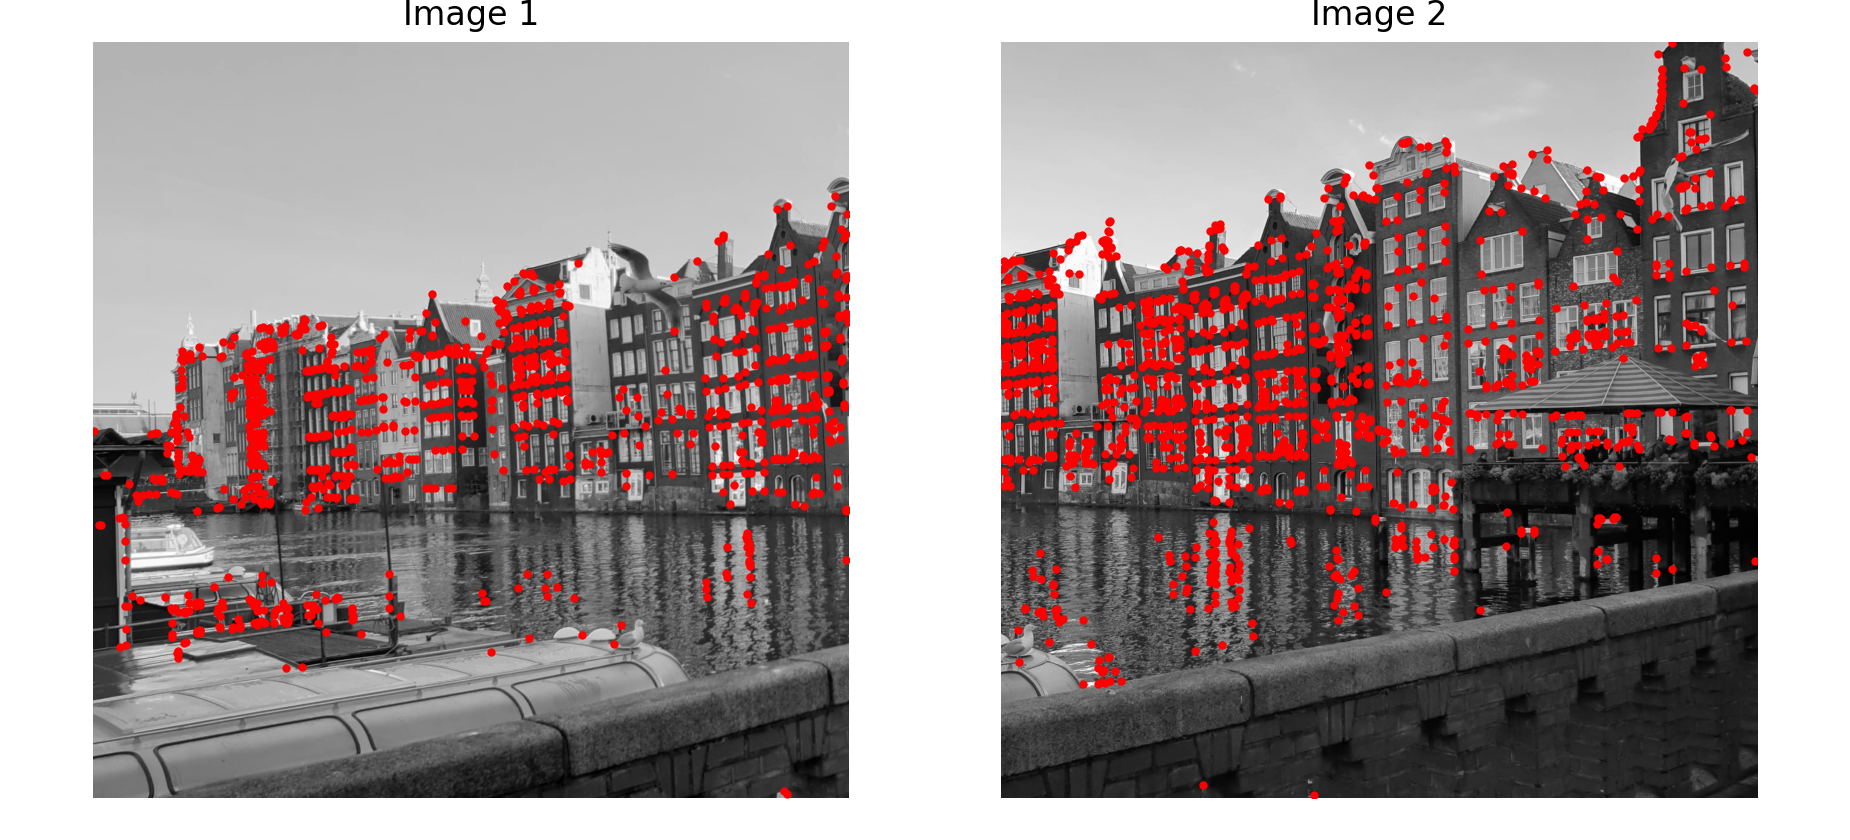
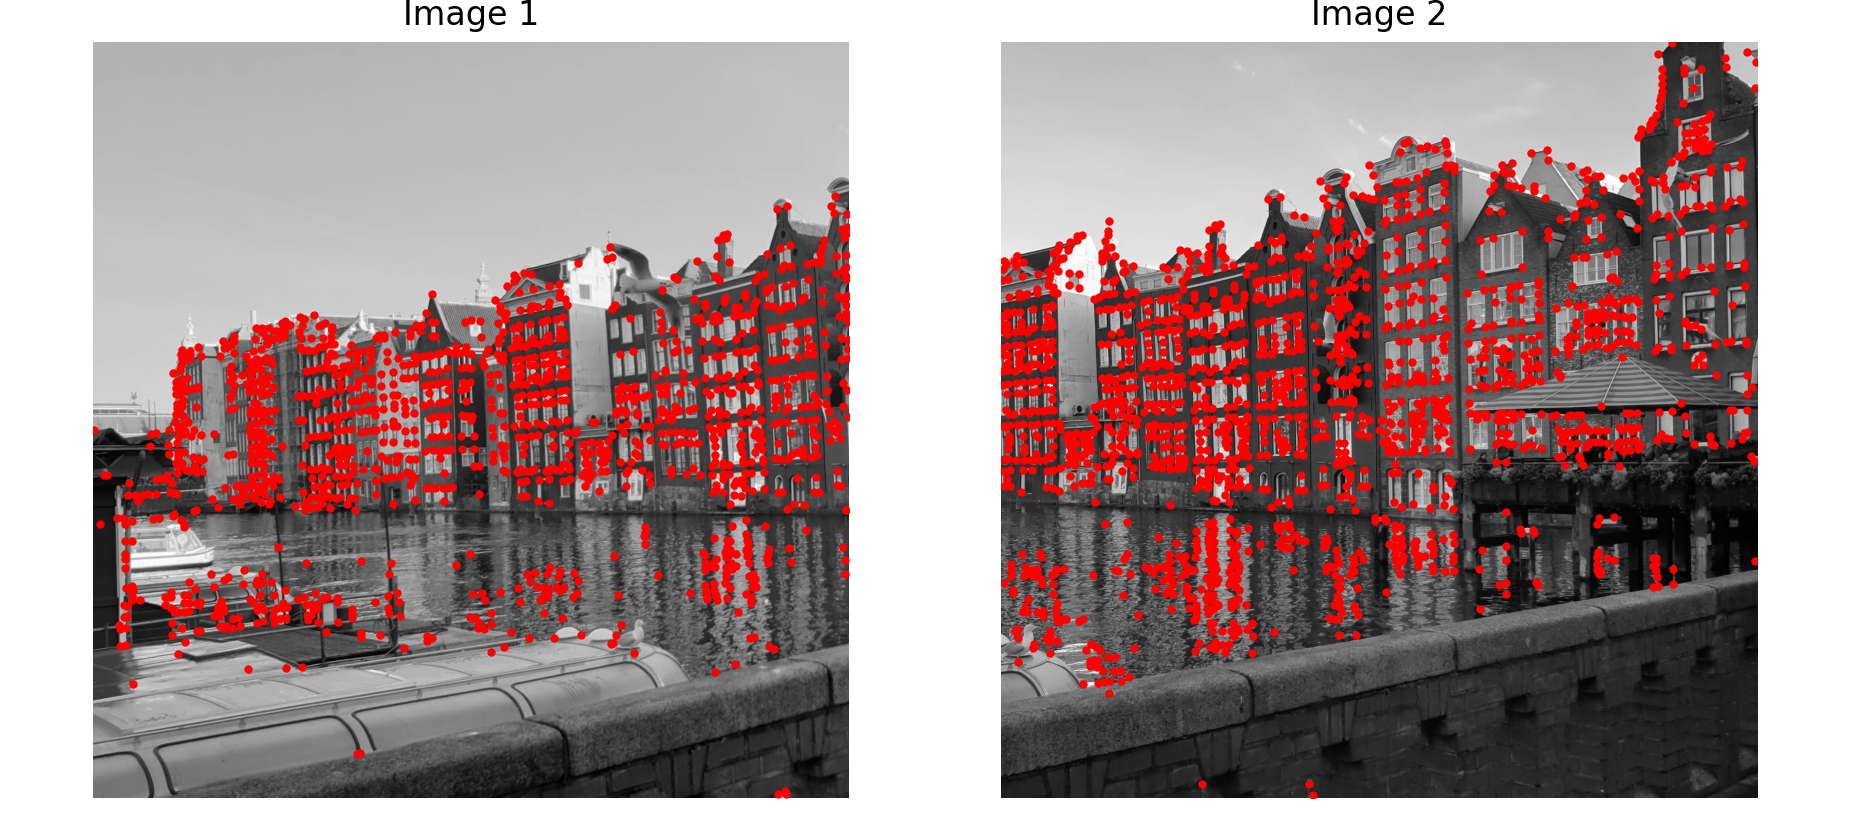
Changes in harris kpt detection

diff --git a/main.py b/main.py
@@ -43,13 +43,13 @@ def run_app(img1_path, img2_path,
     # Create the visualizer object
     vis = visualizer.Visualizer(img1_rgb, img2_rgb, visualize, save_results, results_dir, case_id)
 
-    # Create sift object (used only if enabled)
-    sift = cv2.xfeatures2d.SIFT_create(nfeatures=100)
+    # Create sift object (sift descriptor used only if enabled)
+    sift = cv2.xfeatures2d.SIFT_create(nfeatures=500)
 
     # -------------------------------------------------------------------------
-    # Corner detection
+    # Harris Corner detection
 
-    img1_kpts, img2_kpts = utils.get_Harris_corners(img1_gray, img2_gray)
+    img1_kpts, img2_kpts = utils.get_Harris_corners_2(img1_gray, img2_gray)
 
     vis.set_keypoints(img1_kpts, img2_kpts)
     vis.draw_keypoints()
@@ -83,8 +83,8 @@ def run_app(img1_path, img2_path,
 
     # Matching keypoint pair indices.
     matching_kpt_pair_indices = utils.get_matchings_2(correlation_matrix,
-                                                    similarity_type='correlation',
-                                                    threshold=matching_threshold)
+                                                      similarity_type='correlation',
+                                                      threshold=matching_threshold)
 
     # Visualize matchings
     vis.set_matches(matching_kpt_pair_indices)
@@ -128,7 +128,7 @@ def run_app(img1_path, img2_path,
     # -------------------------------------------------------------------------
     # Apply Affine transform
 
-    img2_warped = cv2.warpPerspective(img2_rgb, affine_matrix, (img1_gray.shape[1]+img2_gray.shape[1],img2_gray.shape[0]))
+    img2_warped = cv2.warpPerspective(img2_rgb, affine_matrix, (img1_gray.shape[1]+img2_gray.shape[1],img1_gray.shape[0]))
     vis.draw_matches(title="Inliers (blue) and Outliers (red)")
     vis.stitch_and_display(img2_warped, display_all=False)
 
@@ -142,10 +142,10 @@ def parse_args():
                         default="./Images/Pair-7/2.jpeg")
     parser.add_argument('--descriptor', type=str, help="Options: 'custom_gray_intensities', custom_rgb_intensities, 'opencv_sift'",
                         default='custom_rgb_intensities')
-    parser.add_argument('--patch_size', type=int, help="5,7,9,...",
-                        default=15)
+    parser.add_argument('--patch_size', type=int, help="9,11,13,15,...",
+                        default=9)
     parser.add_argument('--matching_threshold', type=float, help="Minimum correlation value for a kpt descriptor pair to match",
-                        default=0.985)
+                        default=0.980)
     parser.add_argument('--ransac_sample_size', type=int, help="3,4,5,...",
                         default=3)
     parser.add_argument('--ransac_n_iterations', type=int,
@@ -153,7 +153,7 @@ def parse_args():
     parser.add_argument('--ransac_tolerance', type=int, help="Tolerance value for a kpt pair to be considered an inlier",
                         default=40)
     parser.add_argument('--ransac_inlier_threshold', type=float, help="Fraction of the total matching pairs that need to be inliers",
-                        default=0.03)
+                        default=15)
     parser.add_argument('--visualize', type=int,
                         default=1)
     parser.add_argument('--experiment_id', type=str,

diff --git a/ransac.py b/ransac.py
@@ -3,16 +3,12 @@ import cv2
 
 
 def evaluate_model(affine_matrix, img1_kpts, img2_kpts, inlier_indices):
-    # img1_kpts = np.array([kp.pt for kp in img1_kpts])
     inlier_img1_kpts = img1_kpts[inlier_indices[:,0]]
     inlier_img1_kpts = np.hstack( (inlier_img1_kpts, np.ones((inlier_img1_kpts.shape[0],1))) )
-
-    # img2_kpts = np.array([kp.pt for kp in img2_kpts])
     inlier_img2_kpts = img2_kpts[inlier_indices[:,1]]
     inlier_img2_kpts  = np.hstack((inlier_img2_kpts, np.ones((inlier_img2_kpts.shape[0],1))) )
 
     inlier_img2_kpts_warped = np.dot(inlier_img2_kpts , affine_matrix.T)
-
     euc_distance = np.mean(np.sqrt(np.sum(np.square(inlier_img1_kpts-inlier_img2_kpts_warped), axis=1)), axis=0)
     return euc_distance
 
@@ -31,8 +27,6 @@ class RANSAC_Estimator:
 
 
     def estimate_affine_matrix(self, img1_kpts, img2_kpts, matching_kpt_pair_indices):
-        #inlier_threshold = round(self.inlier_fraction_threshold * matching_kpt_pair_indices.shape[0])
-
         candidate_model_list = []
         used_samples = []
         for i in range(self.n_iterations):
@@ -76,7 +70,7 @@ class RANSAC_Estimator:
                     pt1_true = np.append(img1_kpts[pair_indices[0]], [1])
                     pt1_hypothesis = np.dot(np.append(pt2, [1]), model)
 
-                    # Calculate error(euc distance b/w prediction and truth). In image coordinates.
+                    # Calculate error(euc distance b/w prediction and truth, in image coordinates)
                     dist_from_model = np.linalg.norm(pt1_true-pt1_hypothesis,ord=2)
 
                     if dist_from_model <= self.tolerance:
@@ -104,9 +98,9 @@ class RANSAC_Estimator:
 
         # Choose the best model (one with least residual sum value)
         if len(candidate_model_list) == 0:
-            raise Exception("Couldn't find a good model for the given constraints")
+            raise Exception("Couldn't find a good model for the given configuration")
 
         candidate_model_list = sorted(candidate_model_list, key=lambda c: c[1])
-        affine_matrix, avg_residual, inlier_indices = candidate_model_list[0]
+        affine_matrix, avg_residual, inlier_indices, _ = candidate_model_list[0]
         return affine_matrix.T, avg_residual, inlier_indices
 

diff --git a/visualizer.py b/visualizer.py
@@ -58,8 +58,19 @@ class Visualizer:
         fig.set_size_inches(0.5*18.5, 0.4*10.5)
         fig.set_dpi(200)
         #fig.subplots_adjust(wspace=0.2, hspace=0.1, top=0.95, bottom=0.05, left=0.05, right=0.95)
-        white_strip = (np.ones((self.img1_rgb.shape[0], 100, 3))*255).astype(np.uint8)
-        combined_img = np.hstack((self.img1_rgb, white_strip, self.img2_rgb))
+
+        if self.img1_rgb.shape[0] > self.img2_rgb.shape[0]:
+            white_strip = (np.ones((self.img2_rgb.shape[0], 100, 3))*255).astype(np.uint8)
+            combined_img = np.hstack((self.img1_rgb[:self.img2_rgb.shape[0]], white_strip, self.img2_rgb))
+
+        elif self.img1_rgb.shape[0] < self.img2_rgb.shape[0]:
+            white_strip = (np.ones((self.img1_rgb.shape[0], 100, 3))*255).astype(np.uint8)
+            combined_img = np.hstack((self.img1_rgb, white_strip, self.img2_rgb[:self.img1_rgb.shape[0]]))
+
+        else:
+            white_strip = (np.ones((self.img1_rgb.shape[0], 100, 3))*255).astype(np.uint8)
+            combined_img = np.hstack((self.img1_rgb, white_strip, self.img2_rgb))
+
         ax.imshow(combined_img)
 
         if self.inlier_indices is not None:

diff --git a/utils.py b/utils.py
@@ -14,6 +14,24 @@ def get_Harris_corners(img1_gray, img2_gray):
     return img1_kpts, img2_kpts
 
 
+def get_Harris_corners_2(img1_gray, img2_gray):
+    img1_harris = cv2.cornerHarris(img1_gray, 2, 3, 0.04)
+    img1_harris = cv2.dilate(img1_harris,None)
+    ret, img1_harris = cv2.threshold(img1_harris, 0.05*img1_harris.max(), 255, 0)
+    img1_harris = np.uint8(img1_harris)
+    _, _, _, centroids = cv2.connectedComponentsWithStats(img1_harris)
+    img1_kpts = centroids.copy().astype(np.uint16)
+
+    img2_harris = cv2.cornerHarris(img2_gray, 2, 3, 0.04)
+    img2_harris = cv2.dilate(img2_harris,None)
+    ret, img2_harris = cv2.threshold(img2_harris, 0.05*img2_harris.max(), 255, 0)
+    img2_harris = np.uint8(img2_harris)
+    _, _, _, centroids = cv2.connectedComponentsWithStats(img2_harris)
+    img2_kpts = centroids.copy().astype(np.uint16)
+
+    return img1_kpts, img2_kpts
+
+
 def cvt_to_cv2KeyPoints(xy_pairs):
     xy_pairs = list(xy_pairs)
     cv2_kpts = []
